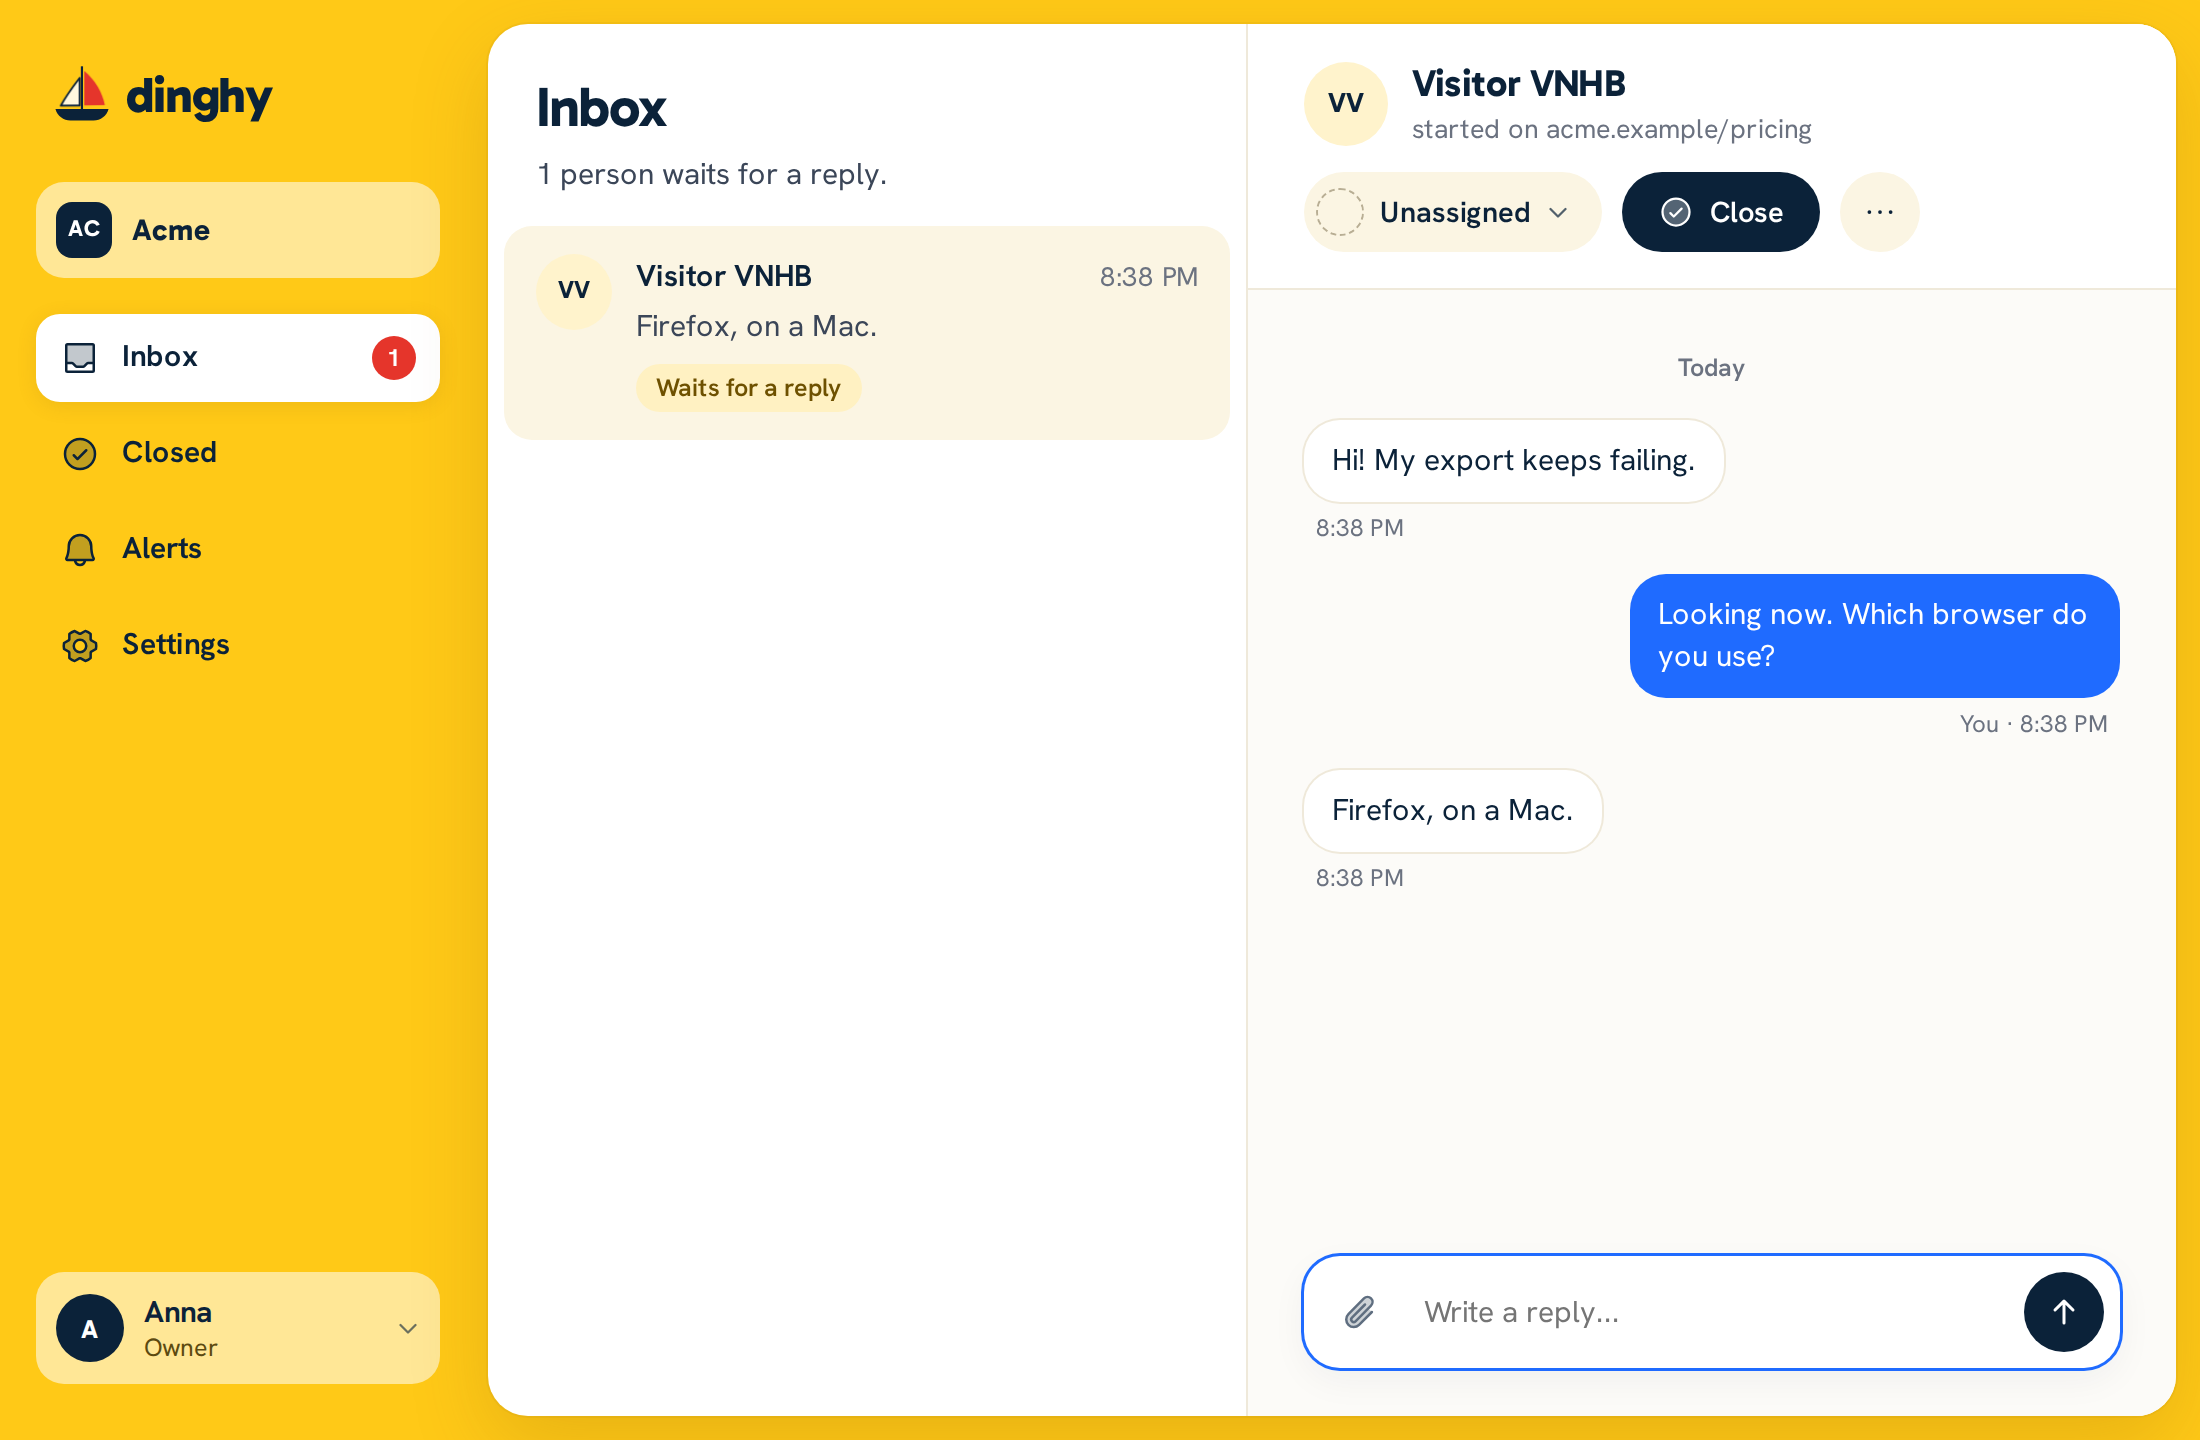
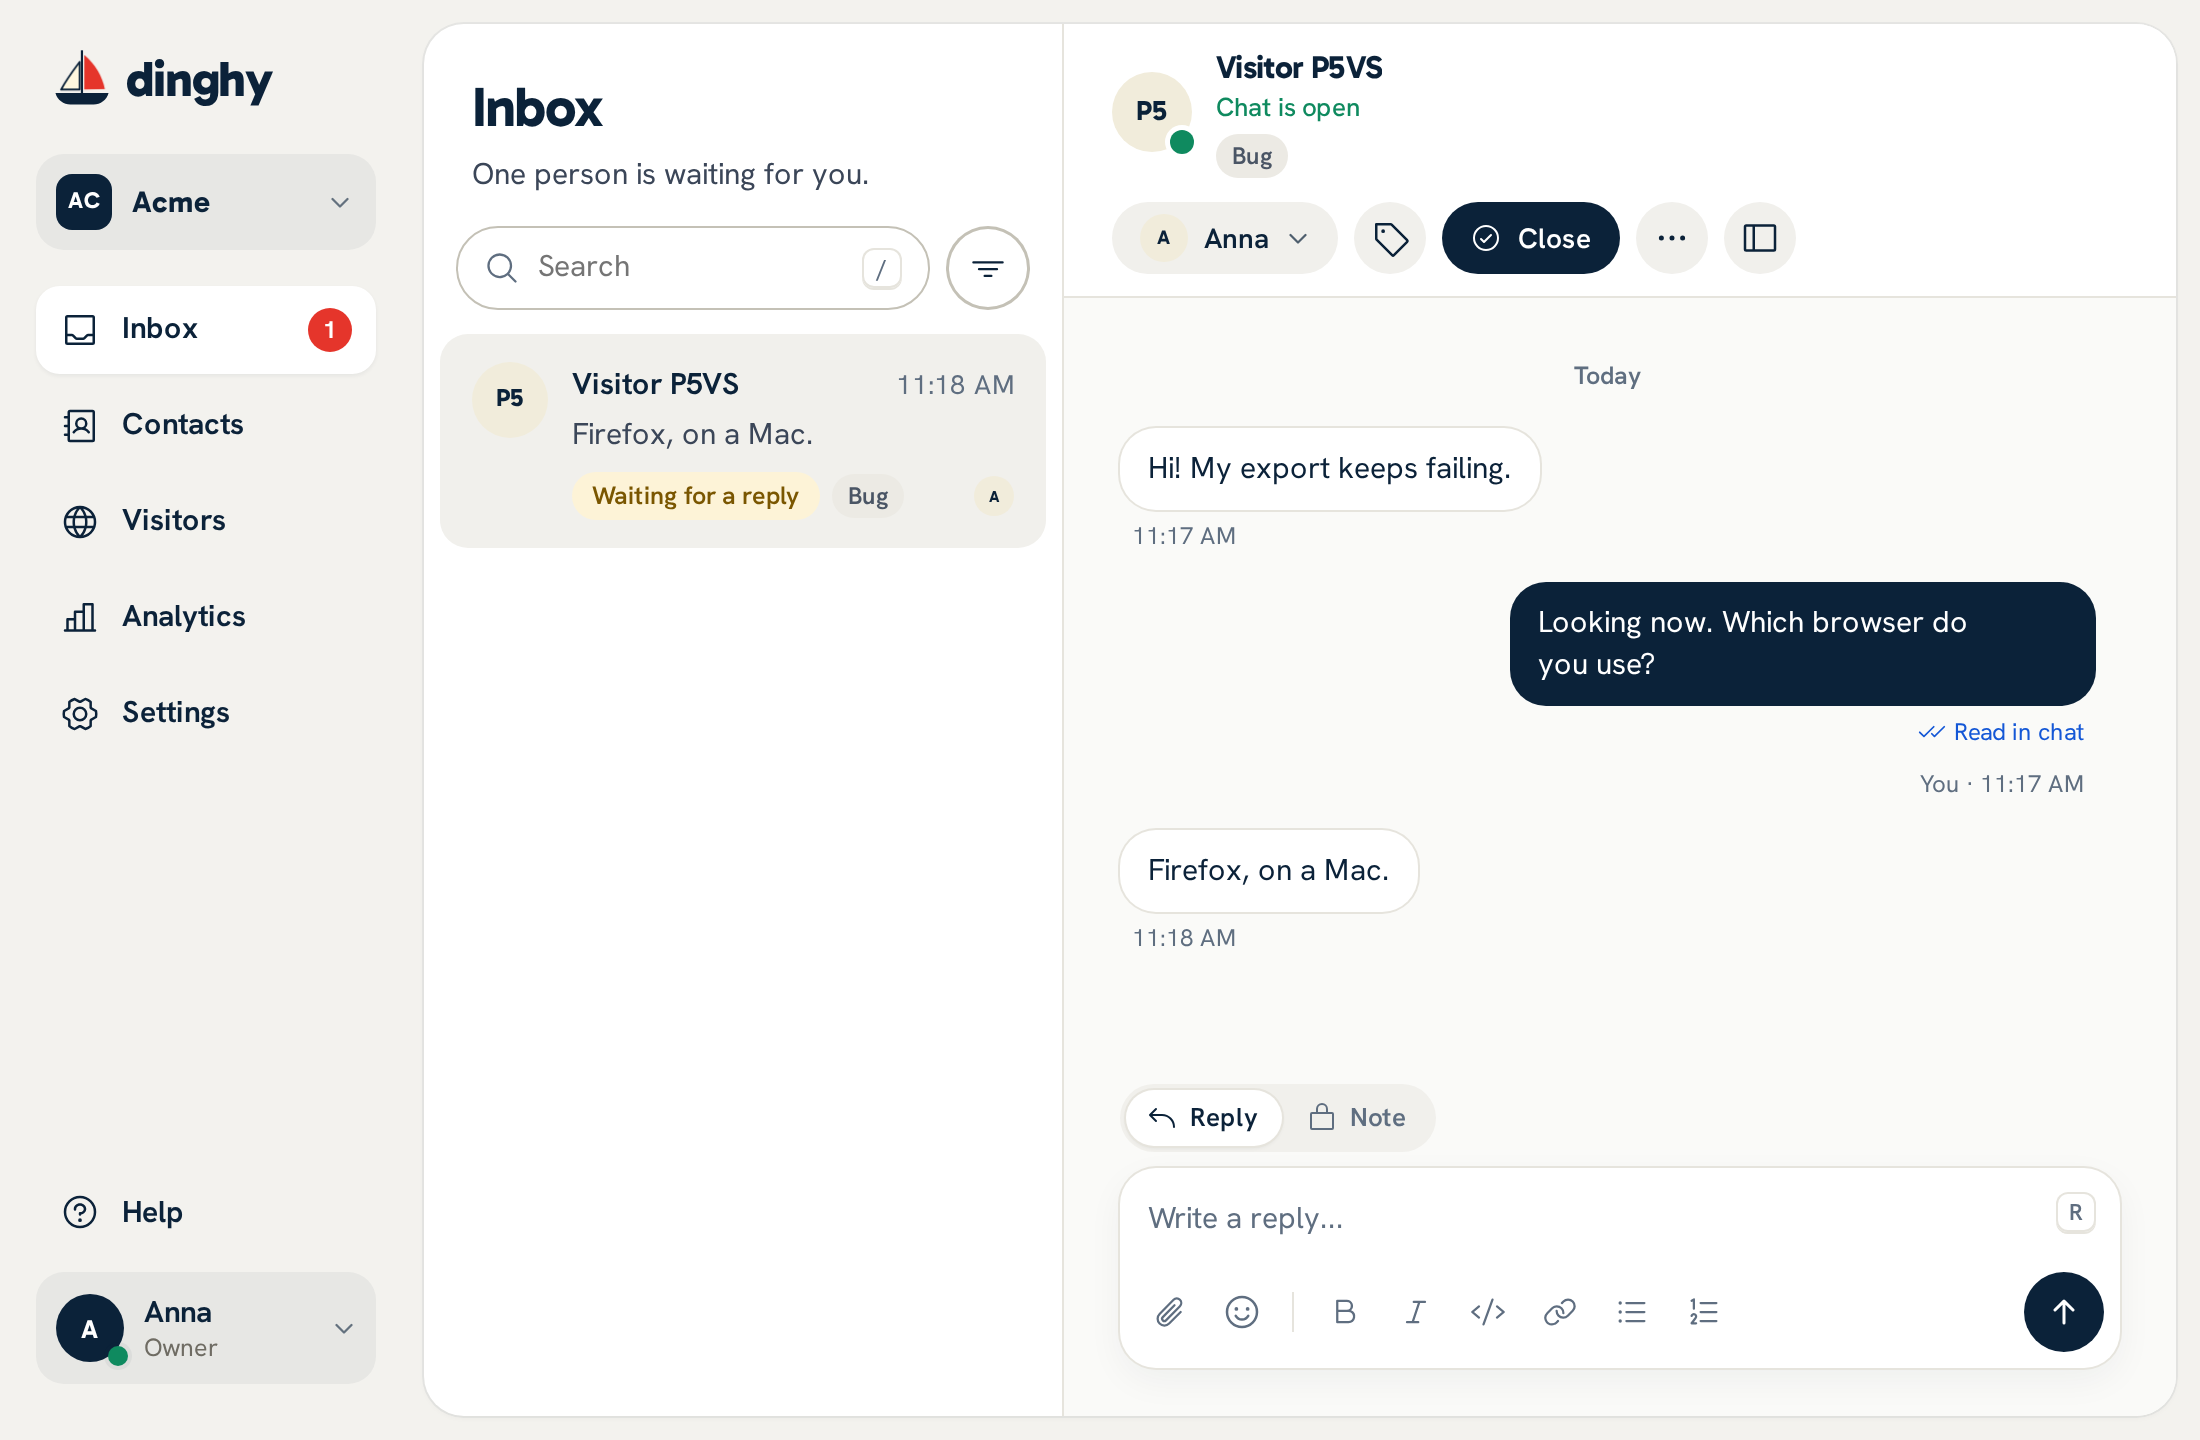
Site, README and docs catch up with the last releases (#120)
- Landing page: the small-things list adds files, mentions, saved replies,
  labels, bulk actions, keyboard shortcuts, business hours, the three widget
  languages and two-step sign-in. The inbox mockup shows a label, and the email
  tile says a visitor can answer from their mail app.
- README: the feature line names what 0.27 to 0.31 added.
- Docs: a visitor can answer the reply email, and Troubleshooting covers a
  failing file. llms.txt lists the label, snooze and saved reply tools, the
  conversation.labeled event and the widget's language.
- New demo GIF and doc pictures from the current app. The recording hides the
  Get started steps and puts a label on the chat before the screenshots.

diff --git a/site/public/index.html b/site/public/index.html
@@ -103,7 +103,7 @@
                       </div>
                       <div class="chat-row">
                         <span class="avatar tint-3">EH</span>
-                        <div class="chat-row-main"><span class="chat-row-top"><b>Emma Holt</b><time>5 min</time></span><small>Can I switch to the yearly plan?</small><span class="chat-row-meta"><span class="chip">Waiting for a reply</span><span class="handler handler-bot"><svg class="ico" viewBox="0 0 24 24"><rect x="4" y="7" width="16" height="12" rx="3"/><path d="M12 7V4M9.5 12h0M14.5 12h0M9.5 15.5h5"/></svg></span></span></div>
+                        <div class="chat-row-main"><span class="chat-row-top"><b>Emma Holt</b><time>5 min</time></span><small>Can I switch to the yearly plan?</small><span class="chat-row-meta"><span class="chip">Waiting for a reply</span><span class="chip chip-label">Billing</span><span class="handler handler-bot"><svg class="ico" viewBox="0 0 24 24"><rect x="4" y="7" width="16" height="12" rx="3"/><path d="M12 7V4M9.5 12h0M14.5 12h0M9.5 15.5h5"/></svg></span></span></div>
                       </div>
                       <div class="chat-row">
                         <span class="avatar tint-0">SO</span>
@@ -229,7 +229,7 @@
 
           <article class="tile tile-narrow tile-peach">
             <h3>Gone? Your reply goes by email</h3>
-            <p>A visitor who left gets your answer in their inbox, and one click brings them back to the chat.</p>
+            <p>A visitor who left gets your answer in their inbox, and answers from their mail app or back in the chat.</p>
             <div class="toy" aria-hidden="true">
               <div class="mail">
                 <div class="mail-bar">
@@ -289,17 +289,23 @@
             <p>In every workspace, on the cloud or your own server.</p>
           </div>
           <ul class="extras-list">
-            <li><svg class="ico" viewBox="0 0 24 24"><rect x="3" y="5" width="18" height="14" rx="2"/><circle cx="9" cy="10" r="1.6"/><path d="M21 16l-5-5-9 8"/></svg>Images up to 5 MB</li>
-            <li><svg class="ico" viewBox="0 0 24 24"><path d="M5 4h14v10l-5 6H5z"/><path d="M14 20v-6h5"/></svg>Notes only your team sees</li>
+            <li><svg class="ico" viewBox="0 0 24 24"><path d="M20 11.5l-7.8 7.8a5 5 0 0 1-7.1-7.1l7.8-7.8a3.3 3.3 0 0 1 4.7 4.7l-7.8 7.8a1.7 1.7 0 0 1-2.4-2.4l7.1-7.1"/></svg>Images and files</li>
+            <li><svg class="ico" viewBox="0 0 24 24"><path d="M5 4h14v10l-5 6H5z"/><path d="M14 20v-6h5"/></svg>Notes and @mentions</li>
+            <li><svg class="ico" viewBox="0 0 24 24"><path d="M4 5h16v11H9l-5 4z"/><path d="M13.5 8l-3 5"/></svg>Saved replies</li>
+            <li><svg class="ico" viewBox="0 0 24 24"><path d="M3 4h8l10 10-7 7L4 11z"/><circle cx="7.5" cy="8" r="1.5"/></svg>Labels</li>
+            <li><svg class="ico" viewBox="0 0 24 24"><rect x="3" y="4" width="7" height="7" rx="2"/><rect x="3" y="13" width="7" height="7" rx="2"/><path d="M14 7.5h7M14 16.5h7M5 7.6l1.3 1.3 2-2.2"/></svg>Bulk actions</li>
+            <li><svg class="ico" viewBox="0 0 24 24"><path d="M9 9V6.5A2.5 2.5 0 1 0 6.5 9H9zm0 0h6m-6 0v6m6-6V6.5A2.5 2.5 0 1 1 17.5 9H15zm0 0v6m0 0H9m6 0v2.5a2.5 2.5 0 1 0 2.5-2.5H15zm-6 0v2.5A2.5 2.5 0 1 1 6.5 15H9z"/></svg>Keyboard shortcuts</li>
             <li><svg class="ico" viewBox="0 0 24 24"><circle cx="12" cy="13" r="8"/><path d="M12 9v4l2.5 2M5 4 3 6M19 4l2 2"/></svg>Snooze until tomorrow</li>
-            <li><svg class="ico" viewBox="0 0 24 24"><path d="M9 7 4 12l5 5"/><path d="M4 12h10a6 6 0 0 1 6 6"/></svg>Reply with a quote</li>
             <li><svg class="ico" viewBox="0 0 24 24"><path d="M2 13l4 4 9-10M10 15l2 2 9-10"/></svg>Read receipts</li>
             <li><svg class="ico" viewBox="0 0 24 24"><rect x="2" y="6" width="20" height="12" rx="2"/><path d="M6 10h0M10 10h0M14 10h0M18 10h0M8 14h8"/></svg>See what visitors type</li>
             <li><svg class="ico" viewBox="0 0 24 24"><rect x="5" y="3" width="14" height="18" rx="2"/><circle cx="12" cy="10" r="2.6"/><path d="M8.5 16.5c1.2-1.8 5.8-1.8 7 0"/></svg>Contacts and history</li>
             <li><svg class="ico" viewBox="0 0 24 24"><path d="M4 20h16M7 20v-6M12 20V8M17 20v-9"/></svg>Analytics</li>
+            <li><svg class="ico" viewBox="0 0 24 24"><circle cx="12" cy="12" r="9"/><path d="M12 7v5l3 2"/></svg>Business hours</li>
+            <li><svg class="ico" viewBox="0 0 24 24"><path d="M4 5h9M8.5 3v2M6 5c.8 3.5 3 6 6 7.5M11 5c-.8 3.5-3 6-6 7.5M13 21l4-9 4 9M14.3 18h5.4"/></svg>English, French, Spanish</li>
             <li><svg class="ico" viewBox="0 0 24 24"><rect x="3" y="5" width="18" height="14" rx="2"/><path d="m3 7 9 6 9-6"/></svg>Transcripts by email</li>
             <li><svg class="ico" viewBox="0 0 24 24"><circle cx="12" cy="12" r="9"/><path d="M8.5 14.5c2 2 5 2 7 0M9 9.5h0M15 9.5h0"/></svg>Markdown and emoji</li>
             <li><svg class="ico" viewBox="0 0 24 24"><circle cx="10" cy="8" r="4"/><path d="M3 20c1-4 4-6 7-6 1.5 0 3 .4 4 1.2M15 18l2 2 4-4"/></svg>Signed-in users</li>
+            <li><svg class="ico" viewBox="0 0 24 24"><path d="M12 3l7 3v5c0 4.5-3 8.5-7 10-4-1.5-7-5.5-7-10V6z"/><path d="M9 12l2 2 4-4"/></svg>Two-step sign-in</li>
             <li><svg class="ico" viewBox="0 0 24 24"><path d="M8 7l-5 5 5 5M16 7l5 5-5 5M14 4l-4 16"/></svg>API and webhooks</li>
             <li><svg class="ico" viewBox="0 0 24 24"><path d="M20 14.5A8 8 0 1 1 9.5 4a6.5 6.5 0 0 0 10.5 10.5z"/></svg>Dark theme</li>
             <li><svg class="ico" viewBox="0 0 24 24"><rect x="3" y="8" width="13" height="13" rx="2"/><path d="M8 8V5a2 2 0 0 1 2-2h9a2 2 0 0 1 2 2v9a2 2 0 0 1-2 2h-3"/></svg>Several workspaces</li>

diff --git a/tests/e2e/readme-demo.spec.ts b/tests/e2e/readme-demo.spec.ts
@@ -80,6 +80,8 @@ test("record", async () => {
     [SITE, server.hostOrigin],
     server.workspaceId(),
   ]);
+  // A team that has used Dinghy for a while has hidden the Get started steps.
+  await database.query("update workspace_member set get_started_dismissed_at = now()");
   const page = await (await fetch(`${server.hostOrigin}/`)).text();
   // The page's address is public and the test server is on 127.0.0.1, which Chrome's private
   // network protection blocks. Only this recording turns it off; a real site never meets it.
@@ -133,6 +135,14 @@ test("record", async () => {
 
   // The pictures in the docs, after the recording, so the GIF never shows them.
   await visitor.screenshot({ path: join(directory, "widget.png") });
+  // A label, as a team would sort this chat.
+  await operator.getByRole("button", { name: "Labels", exact: true }).click();
+  const labels = operator.getByRole("dialog", { name: "Labels" });
+  await labels.getByRole("textbox", { name: "Find or add a label" }).fill("Bug");
+  await labels.getByRole("textbox", { name: "Find or add a label" }).press("Enter");
+  await expect(labels.getByRole("checkbox", { name: "Bug" })).toBeChecked();
+  await operator.keyboard.press("Escape");
+  await expect(labels).toBeHidden();
   await operator.setViewportSize({ width: 1100, height: 720 });
   // No hover state in the pictures.
   await operator.mouse.move(0, 0);

diff --git a/site/public/css/site.css b/site/public/css/site.css
@@ -1109,6 +1109,11 @@ main {
   font-weight: 500;
 }
 
+.chip-label {
+  background: #ecebe7;
+  color: #3d4756;
+}
+
 .typing {
   display: flex;
   gap: 5px;

diff --git a/docs/add-to-your-site.md b/docs/add-to-your-site.md
@@ -297,6 +297,7 @@ If your Dinghy serves images and files from a separate origin (`UPLOADS_ORIGIN`)
 - Leave an email, if they are not signed in and your Dinghy install has a mail server. They then get your reply by email if they left the page. With no mail server, the widget does not ask.
 - Write outside your [business hours](operator-guide.md#business-hours). The chat then says when your team is back, on the visitor's own clock, and asks for their email before the first message.
 - Continue from the reply email. Its link opens the conversation on a page of your Dinghy server, at `https://chat.example.com/chat/...`, where they can read and reply. The link works for 30 days, and each email has a new one. The email still has the link that stops these emails.
+- Answer the reply email from their mail app, if your server has [replies by email](self-hosting.md#replies-by-email) on. The answer goes into the same conversation and reopens it if it was closed.
 
 ## What operators see about a visitor
 

diff --git a/docs/troubleshooting.md b/docs/troubleshooting.md
@@ -39,7 +39,7 @@ curl https://chat.example.com/readyz
 
 **A signed-in user sees "Not sent. Select to try again".** Check the token fields in [the table](add-to-your-site.md#show-who-is-chatting). The usual causes are a wrong `aud`, `iat` and `exp` more than 24 hours apart, or a secret that was replaced in **Settings > Install**.
 
-**A visitor's image fails.** It must be PNG, JPEG or WebP, under 5 MB and under 16 megapixels. Under heavy load, the server also refuses uploads for a short time. [The measurements](measurements.md) have the numbers.
+**A visitor's image or file fails.** An image must be PNG, JPEG or WebP, under 5 MB and under 16 megapixels. A file must be one of [the allowed types](add-to-your-site.md#what-visitors-can-do), up to 10 MB, and visitors can send files only while **Visitors can send files** is on in **Settings > Appearance**. Under heavy load, the server also refuses uploads for a short time. [The measurements](measurements.md) have the numbers.
 
 ## Alerts
 

diff --git a/README.md b/README.md
@@ -16,7 +16,7 @@ sudo ./install.sh
 
 The installer asks a few questions, installs Docker if it is missing, gets an HTTPS certificate and prints a sign-in link and the tag for your site. [The docs](docs/README.md) have the next steps.
 
-It has text, images and files in both directions, verified users, several operators, web push and email alerts, and export and import.
+It has text, images and files in both directions, several operators, labels, saved replies, notes with mentions, bulk actions and keyboard shortcuts. It also has web push and email alerts, replies by email, business hours, a widget in English, French and Spanish, verified users, two-step sign-in, and export and import.
 
 An AI agent can install it on your site and answer chats through its MCP server, with OAuth in the browser, drafts that a person approves, and a handoff to your team. [Use Dinghy with AI agents](docs/agents.md) has the steps.
 
